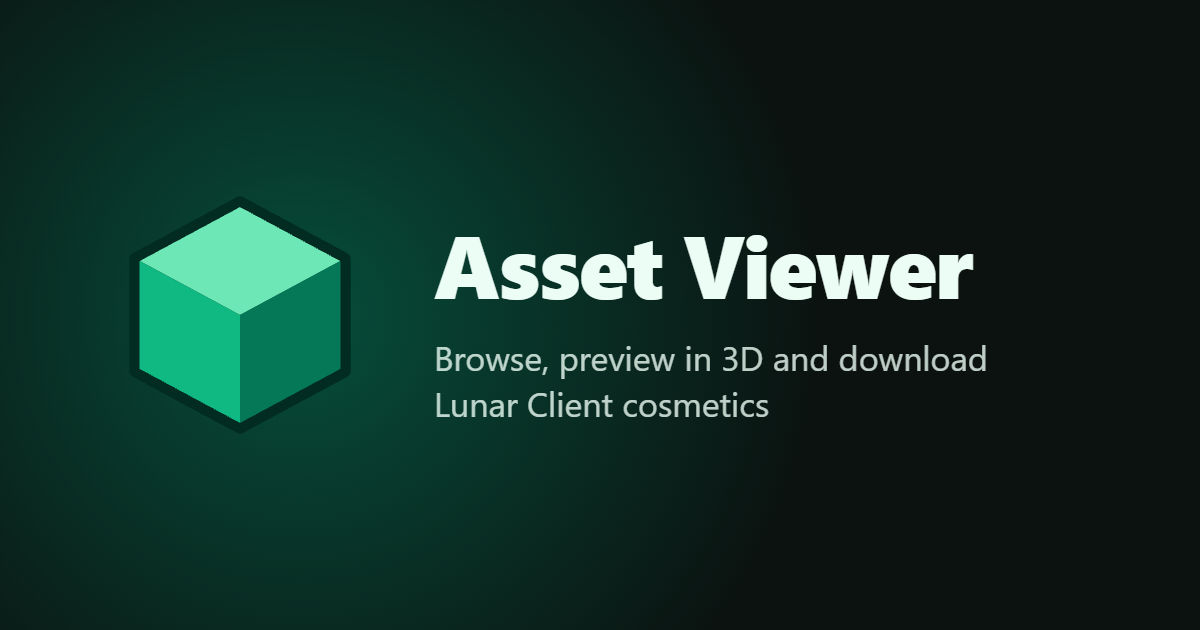
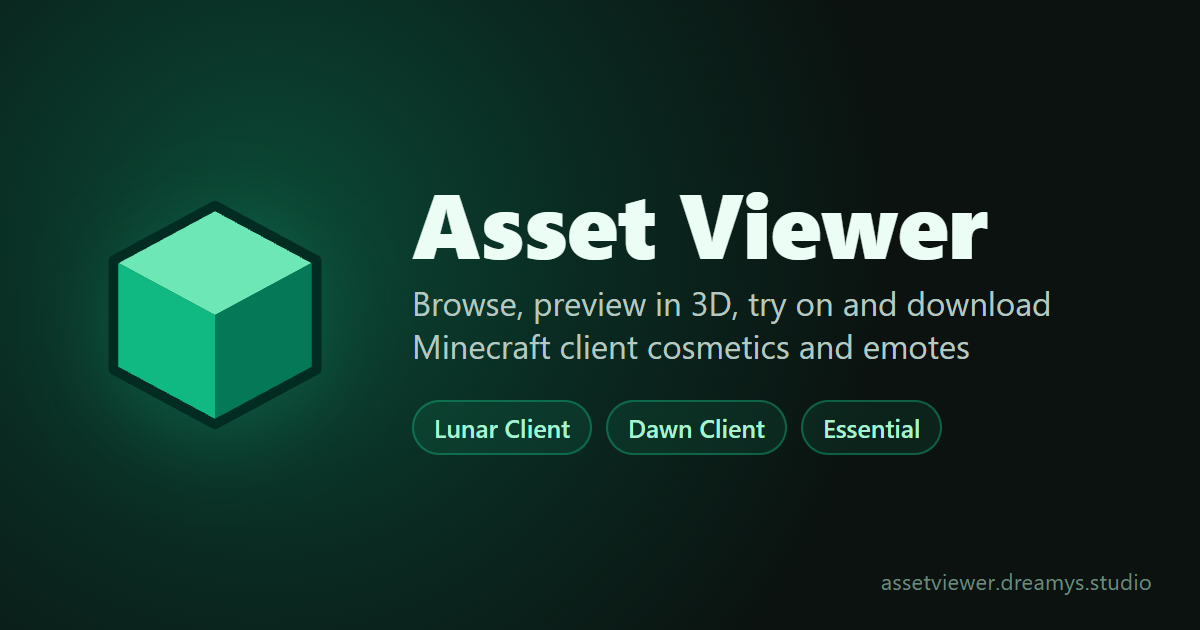
feat: SEO for all three providers; new preview image
Title, description and social tags name Lunar Client, Dawn Client and
Essential; JSON-LD, noscript text, sitemap.xml (+ robots.txt entry);
per-page title and meta description; og.png re-rendered with the
provider chips.

Changed region(s): [[0.3392, 0.3016, 0.8942, 0.7238], [0.0925, 0.3016, 0.3083, 0.6937], [0.74, 0.9048, 0.9558, 0.9349]]

diff --git a/index.html b/index.html
@@ -3,8 +3,10 @@
   <head>
     <meta charset="UTF-8" />
     <meta name="viewport" content="width=device-width, initial-scale=1.0" />
-    <title>Asset Viewer – Lunar Client cosmetics viewer</title>
-    <meta name="description" content="Unofficial viewer for Lunar Client cosmetics: browse every hat, cloak, wing, pet and emote, preview them in 3D, try them on a player and download the files." />
+    <title>Asset Viewer – Lunar Client, Dawn Client & Essential cosmetics viewer</title>
+    <meta name="description" content="Unofficial 3D viewer for Minecraft client cosmetics: browse every Lunar Client and Dawn Client hat, cloak, wing, pet and emote, plus Essential from your own game files. Preview in 3D, try them on your skin and download the files." />
+    <meta name="keywords" content="Lunar Client cosmetics, Dawn Client cosmetics, Essential cosmetics, Minecraft cosmetics viewer, Minecraft cloaks, wings, emotes, 3D model viewer" />
+    <meta name="robots" content="index, follow, max-image-preview:large" />
     <meta name="color-scheme" content="dark light" />
     <meta name="theme-color" content="#0b1210" media="(prefers-color-scheme: dark)" />
     <meta name="theme-color" content="#f8fafc" media="(prefers-color-scheme: light)" />
@@ -12,21 +14,47 @@
     <link rel="icon" type="image/png" sizes="32x32" href="/favicon-32.png" />
     <link rel="apple-touch-icon" href="/apple-touch-icon.png" />
     <link rel="canonical" href="https://assetviewer.dreamys.studio/" />
+    <link rel="sitemap" type="application/xml" href="/sitemap.xml" />
     <meta property="og:url" content="https://assetviewer.dreamys.studio/" />
     <meta property="og:type" content="website" />
+    <meta property="og:locale" content="en_US" />
     <meta property="og:site_name" content="Asset Viewer" />
-    <meta property="og:title" content="Asset Viewer – Lunar Client cosmetics viewer" />
-    <meta property="og:description" content="Browse, preview in 3D and download Lunar Client cosmetics, emotes and resources." />
+    <meta property="og:title" content="Asset Viewer – Minecraft client cosmetics in 3D" />
+    <meta property="og:description" content="Browse, preview in 3D, try on and download Lunar Client, Dawn Client and Essential cosmetics and emotes." />
     <meta property="og:image" content="https://assetviewer.dreamys.studio/og.png" />
+    <meta property="og:image:type" content="image/png" />
     <meta property="og:image:width" content="1200" />
     <meta property="og:image:height" content="630" />
+    <meta property="og:image:alt" content="Asset Viewer: browse, preview in 3D, try on and download Lunar Client, Dawn Client and Essential cosmetics" />
     <meta name="twitter:card" content="summary_large_image" />
-    <meta name="twitter:title" content="Asset Viewer – Lunar Client cosmetics viewer" />
-    <meta name="twitter:description" content="Browse, preview in 3D and download Lunar Client cosmetics, emotes and resources." />
+    <meta name="twitter:title" content="Asset Viewer – Minecraft client cosmetics in 3D" />
+    <meta name="twitter:description" content="Browse, preview in 3D, try on and download Lunar Client, Dawn Client and Essential cosmetics and emotes." />
     <meta name="twitter:image" content="https://assetviewer.dreamys.studio/og.png" />
+    <meta name="twitter:image:alt" content="Asset Viewer: browse, preview in 3D, try on and download Lunar Client, Dawn Client and Essential cosmetics" />
+    <script type="application/ld+json">
+      {
+        "@context": "https://schema.org",
+        "@type": "WebApplication",
+        "name": "Asset Viewer",
+        "url": "https://assetviewer.dreamys.studio/",
+        "image": "https://assetviewer.dreamys.studio/og.png",
+        "description": "Unofficial 3D viewer for Lunar Client, Dawn Client and Essential Minecraft cosmetics and emotes.",
+        "applicationCategory": "EntertainmentApplication",
+        "operatingSystem": "Any (web browser with WebGL)",
+        "browserRequirements": "Requires JavaScript and WebGL",
+        "isAccessibleForFree": true,
+        "offers": { "@type": "Offer", "price": "0", "priceCurrency": "USD" }
+      }
+    </script>
   </head>
   <body>
     <div id="app"></div>
+    <!-- Crawlers that don't run JavaScript still get a description of the site. -->
+    <noscript>
+      <h1>Asset Viewer</h1>
+      <p>An unofficial viewer for Minecraft client cosmetics. Browse every Lunar Client and Dawn Client hat, cloak, wing, pet, aura and emote, plus Essential cosmetics read from your own game files. Preview them in 3D, dress a player in your own skin and download the files.</p>
+      <p>Asset Viewer needs JavaScript and WebGL.</p>
+    </noscript>
     <script type="module" src="/src/main.ts"></script>
   </body>
 </html>

diff --git a/src/views/ProviderView.vue b/src/views/ProviderView.vue
@@ -67,7 +67,10 @@ const collection = computed(() => (props.category?.startsWith(COLLECTION_PREFIX)
 watchEffect(() => {
   const c = props.category
   const label = c === 'home' || !c ? '' : collection.value?.name ?? categories.value.find((x) => x.id === c)?.label ?? ''
-  document.title = label ? `${label} · Asset Viewer` : provider.value.available ? `Asset Viewer – ${provider.value.name} cosmetics viewer` : `${provider.value.name} · Asset Viewer`
+  const name = provider.value.name
+  document.title = label ? `${label} · ${name} · Asset Viewer` : provider.value.available ? `Asset Viewer – ${name} cosmetics viewer` : `${name} · Asset Viewer`
+  // Rendering crawlers read the description per page too.
+  document.querySelector('meta[name="description"]')?.setAttribute('content', `${label ? `${label}: browse` : 'Browse'}, preview in 3D, try on and download ${name} cosmetics. Unofficial Minecraft cosmetics viewer.`)
 })
 
 // Categories bigger than this get a performance warning.

diff --git a/tests/dom/app.test.ts b/tests/dom/app.test.ts
@@ -86,7 +86,7 @@ describe('category grid', () => {
     await open('/lunar/cloak')
     expect(count()).toBe('3 items')
     expect(cards()).toEqual(['Blue Cloak', '12', 'Unl'])
-    expect(document.title).toBe('Cloaks · Asset Viewer')
+    expect(document.title).toBe('Cloaks · Lunar Client · Asset Viewer')
     expect(menuItem('Cloaks').closest('.cat-active')).toBeTruthy()
   })
 
@@ -209,7 +209,7 @@ describe('Everything and collections', () => {
     expect($('.collcount')!.textContent).toBe('2 items')
     expect(cards()).toEqual(['Crown', 'Blue Cloak'])
     expect(byText('Delete', '.collactions button')).toBeUndefined()
-    expect(document.title).toBe('Favorites · Asset Viewer')
+    expect(document.title).toBe('Favorites · Lunar Client · Asset Viewer')
     // union of the fields of both categories
     press(byText('Filter', 'button'))
     await settle(10)

diff --git a/tests/browser/app.browser.test.ts b/tests/browser/app.browser.test.ts
@@ -30,7 +30,7 @@ afterAll(() => app.unmount())
 describe('app in the browser', () => {
   it('loads the cloak category from the live CDN', async () => {
     await expect.poll(() => $$('.card').length, { timeout: 60_000 }).toBeGreaterThan(10)
-    expect(document.title).toBe('Cloaks · Asset Viewer')
+    expect(document.title).toBe('Cloaks · Lunar Client · Asset Viewer')
     expect($('.foot')!.textContent).toMatch(/Lunar Client: [\d,]+ items/)
     // the shared WebGL canvas sits over the grid
     expect($('.grid-wrap canvas')).toBeTruthy()

diff --git a/CLAUDE.md b/CLAUDE.md
@@ -71,7 +71,7 @@ Unofficial fan viewer for Lunar Client cosmetics, served from `https://textures.
 - **Negative cube sizes**: some Bedrock models mirror a cube with negative `size` (paired with a plain copy that carries the other side's textures, e.g. the duck eyes); `buildCube` uses `Math.abs` for the box so each face texture stays on its own side (a negative BoxGeometry flipped them and left sides see-through). The sidebar order is Everything, Cosmetics, Resources, Collections, Tools; grid auto-rotate is an accumulated angle in `SharedRenderer` so re-enabling resumes where it stopped.
 - **Dragon wings** (`dragon_wings`, kind `wing2d`): the textures are ender dragon sheets (1024 = 256 grid x4), drawn on a built-in dragon wing model (`dragonWingGeo`: bone uv 112,88 + 56x56 membrane at -56,88, tip at 112,136 / -56,144) with a Molang flap. Membrane UVs follow Java box UV: outer end = u 0, bone edge = bottom of the quad (scallops on the top/trailing edge), left wing u-mirrored; getting this wrong put the scallops at the joints ("spliced rectangles"). Not the CDN's `simple_2d_wings` (that stretched the whole sheet over a plane). The pose and the 1 s flap are the classic dragon-wing cosmetic's that 1.8 clients share (wing scaled 10/56, hinged 2 px off the spine at 1.45 blocks, 0.2 behind, X -80 / Y 20 / Z 20 degrees, X -cos(t)·0.2 rad, Y +sin(t)·0.4 rad, tip Z -(sin(t + 2) + 0.5)·0.75 rad). Java (x, y, z) px in that frame is (x, 23.2 - y, 3.2 + z) in our Bedrock file space and a Java rotation [x, y, z] is [x, -y, z]; the left wing mirrors it.
 - **Outfit builder**: each slot row has a dice toggle (included in "Random"); exclusions persist in `assetviewer.outfit.random` so new slots start included. Random fills every included slot (3D items only) and leaves the others as they are. Keys are per provider: Lunar keeps `assetviewer.outfit` / `.outfit.random`, others use `assetviewer.outfit.<id>` / `.outfit.random.<id>`. The pose picker only shows when the provider has emotes.
-- **Page metadata**: `index.html` has the title, description, theme-color, OG/Twitter tags (`og:image` = `/og.png`) and icons (`favicon.svg` cube, `favicon-32.png`, `apple-touch-icon.png`); canonical/og:url/og:image use the absolute production URL. `ProviderView` sets `document.title` per page (`<Category> · Asset Viewer`). The PNGs were rendered from the SVG with `_cdp.mjs` (inline the SVG markup on `about:blank`; an `<img>` there doesn't load).
+- **Page metadata**: `index.html` has the title, description, theme-color, OG/Twitter tags (`og:image` = `/og.png`) and icons (`favicon.svg` cube, `favicon-32.png`, `apple-touch-icon.png`); canonical/og:url/og:image use the absolute production URL; plus JSON-LD (`WebApplication`), a `<noscript>` description, `public/sitemap.xml` (one URL: hash routing) referenced from `robots.txt`. `ProviderView` sets `document.title` (`<Category> · <Provider> · Asset Viewer`) and the meta description per page. The PNGs were rendered from the SVG with `_cdp.mjs` (inline the SVG markup on `about:blank`; an `<img>` there doesn't load); `og.png` from a 1200x630 HTML page (cube, title, tagline, Lunar/Dawn/Essential chips) loaded as a `file://` URL.
 - **Deep-linked modal**: `CosmeticModal` opens `props.item` in `onMounted` too; with only the watch, `?item=` links showed an empty modal.
 - **three.js objects in Vue state** must stay out of deep reactivity: use `shallowRef` and replace whole arrays (CompareDialog panes), or keep them in plain `let`s.
 - Synthetic `.click()` doesn't reliably select PrimeVue Select options: dispatch pointerdown/mousedown/pointerup/mouseup/click. For drags dispatch `PointerEvent`s (with `shiftKey` to pan) on the canvas.
